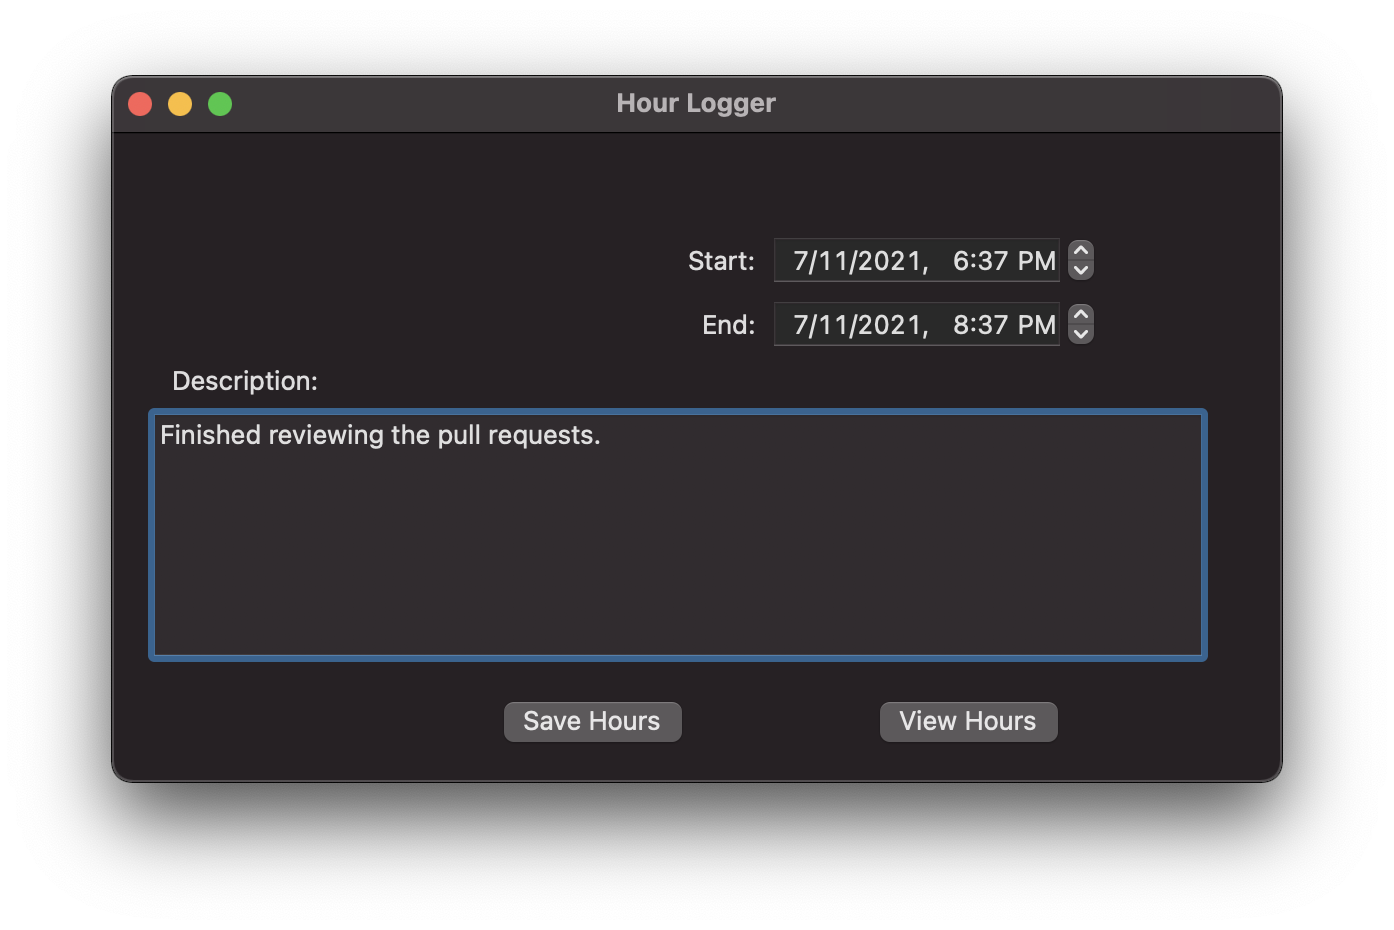
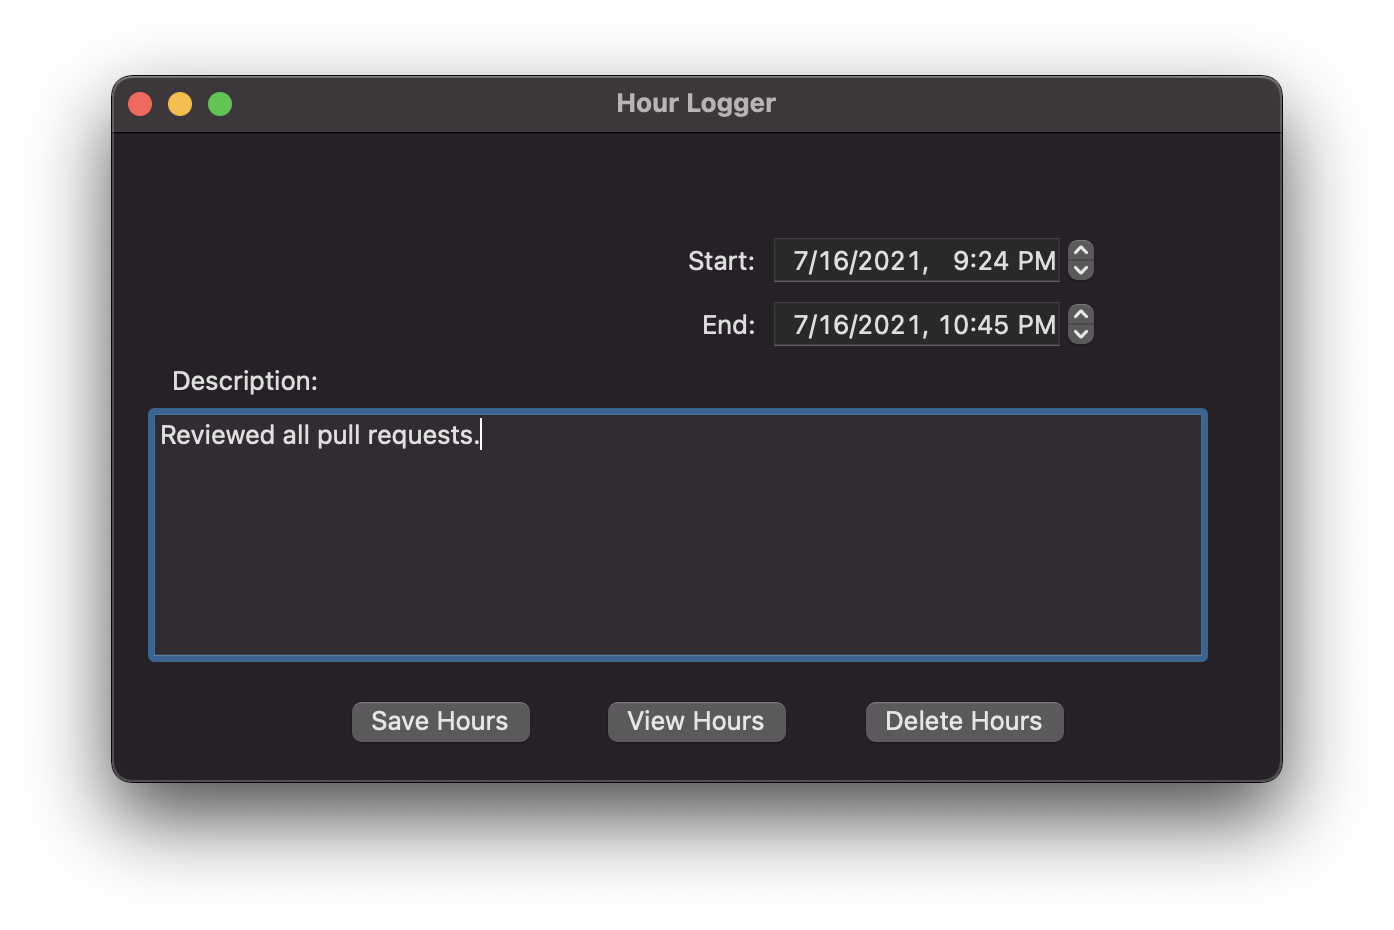
Add functionality to delete logged hours

diff --git a/Hour Logger/ViewController.swift b/Hour Logger/ViewController.swift
@@ -137,5 +137,46 @@ class ViewController: NSViewController {
             showAlert(alert: createAlert(msg: "File Does Not Exist", button: "Got It", style: "critical", info: "There are no stored records found. Please add your hours to start logging."), message: "Done.")
         }
     }
+    
+    func deleteFile() -> Void {
+        do {
+            let file_manager = FileManager()
+            try file_manager.removeItem(at: filename)
+        } catch {
+            print("ERROR: Cannot delete file: \(error)")
+        }
+        print("Deleted")
+    }
+    
+    @IBAction func deleteHours(_ sender: Any) {
+        let alert = NSAlert()
+        alert.messageText = "Confirm Delete?"
+        alert.informativeText = "Are you sure you want to delete all logged hours?"
+        alert.addButton(withTitle: "Confirm")
+        alert.addButton(withTitle: "Cancel")
+        alert.alertStyle = .critical
+        var w: NSWindow?
+        if let window = view.window{
+            w = window
+        }
+        else if let window = NSApplication.shared.windows.first{
+            w = window
+        }
+        if let window = w{
+            alert.beginSheetModal(for: window){ (modalResponse) in
+                if modalResponse == .alertFirstButtonReturn {
+                    // confirm delete the records
+                    if self.fileDoesExist(file: self.filename.path) {
+                        self.deleteFile()
+                    }
+                } else if modalResponse == .alertSecondButtonReturn {
+                    print("Canceled")
+                }
+            }
+        }
+
+    }
+    
+    
 }
 
